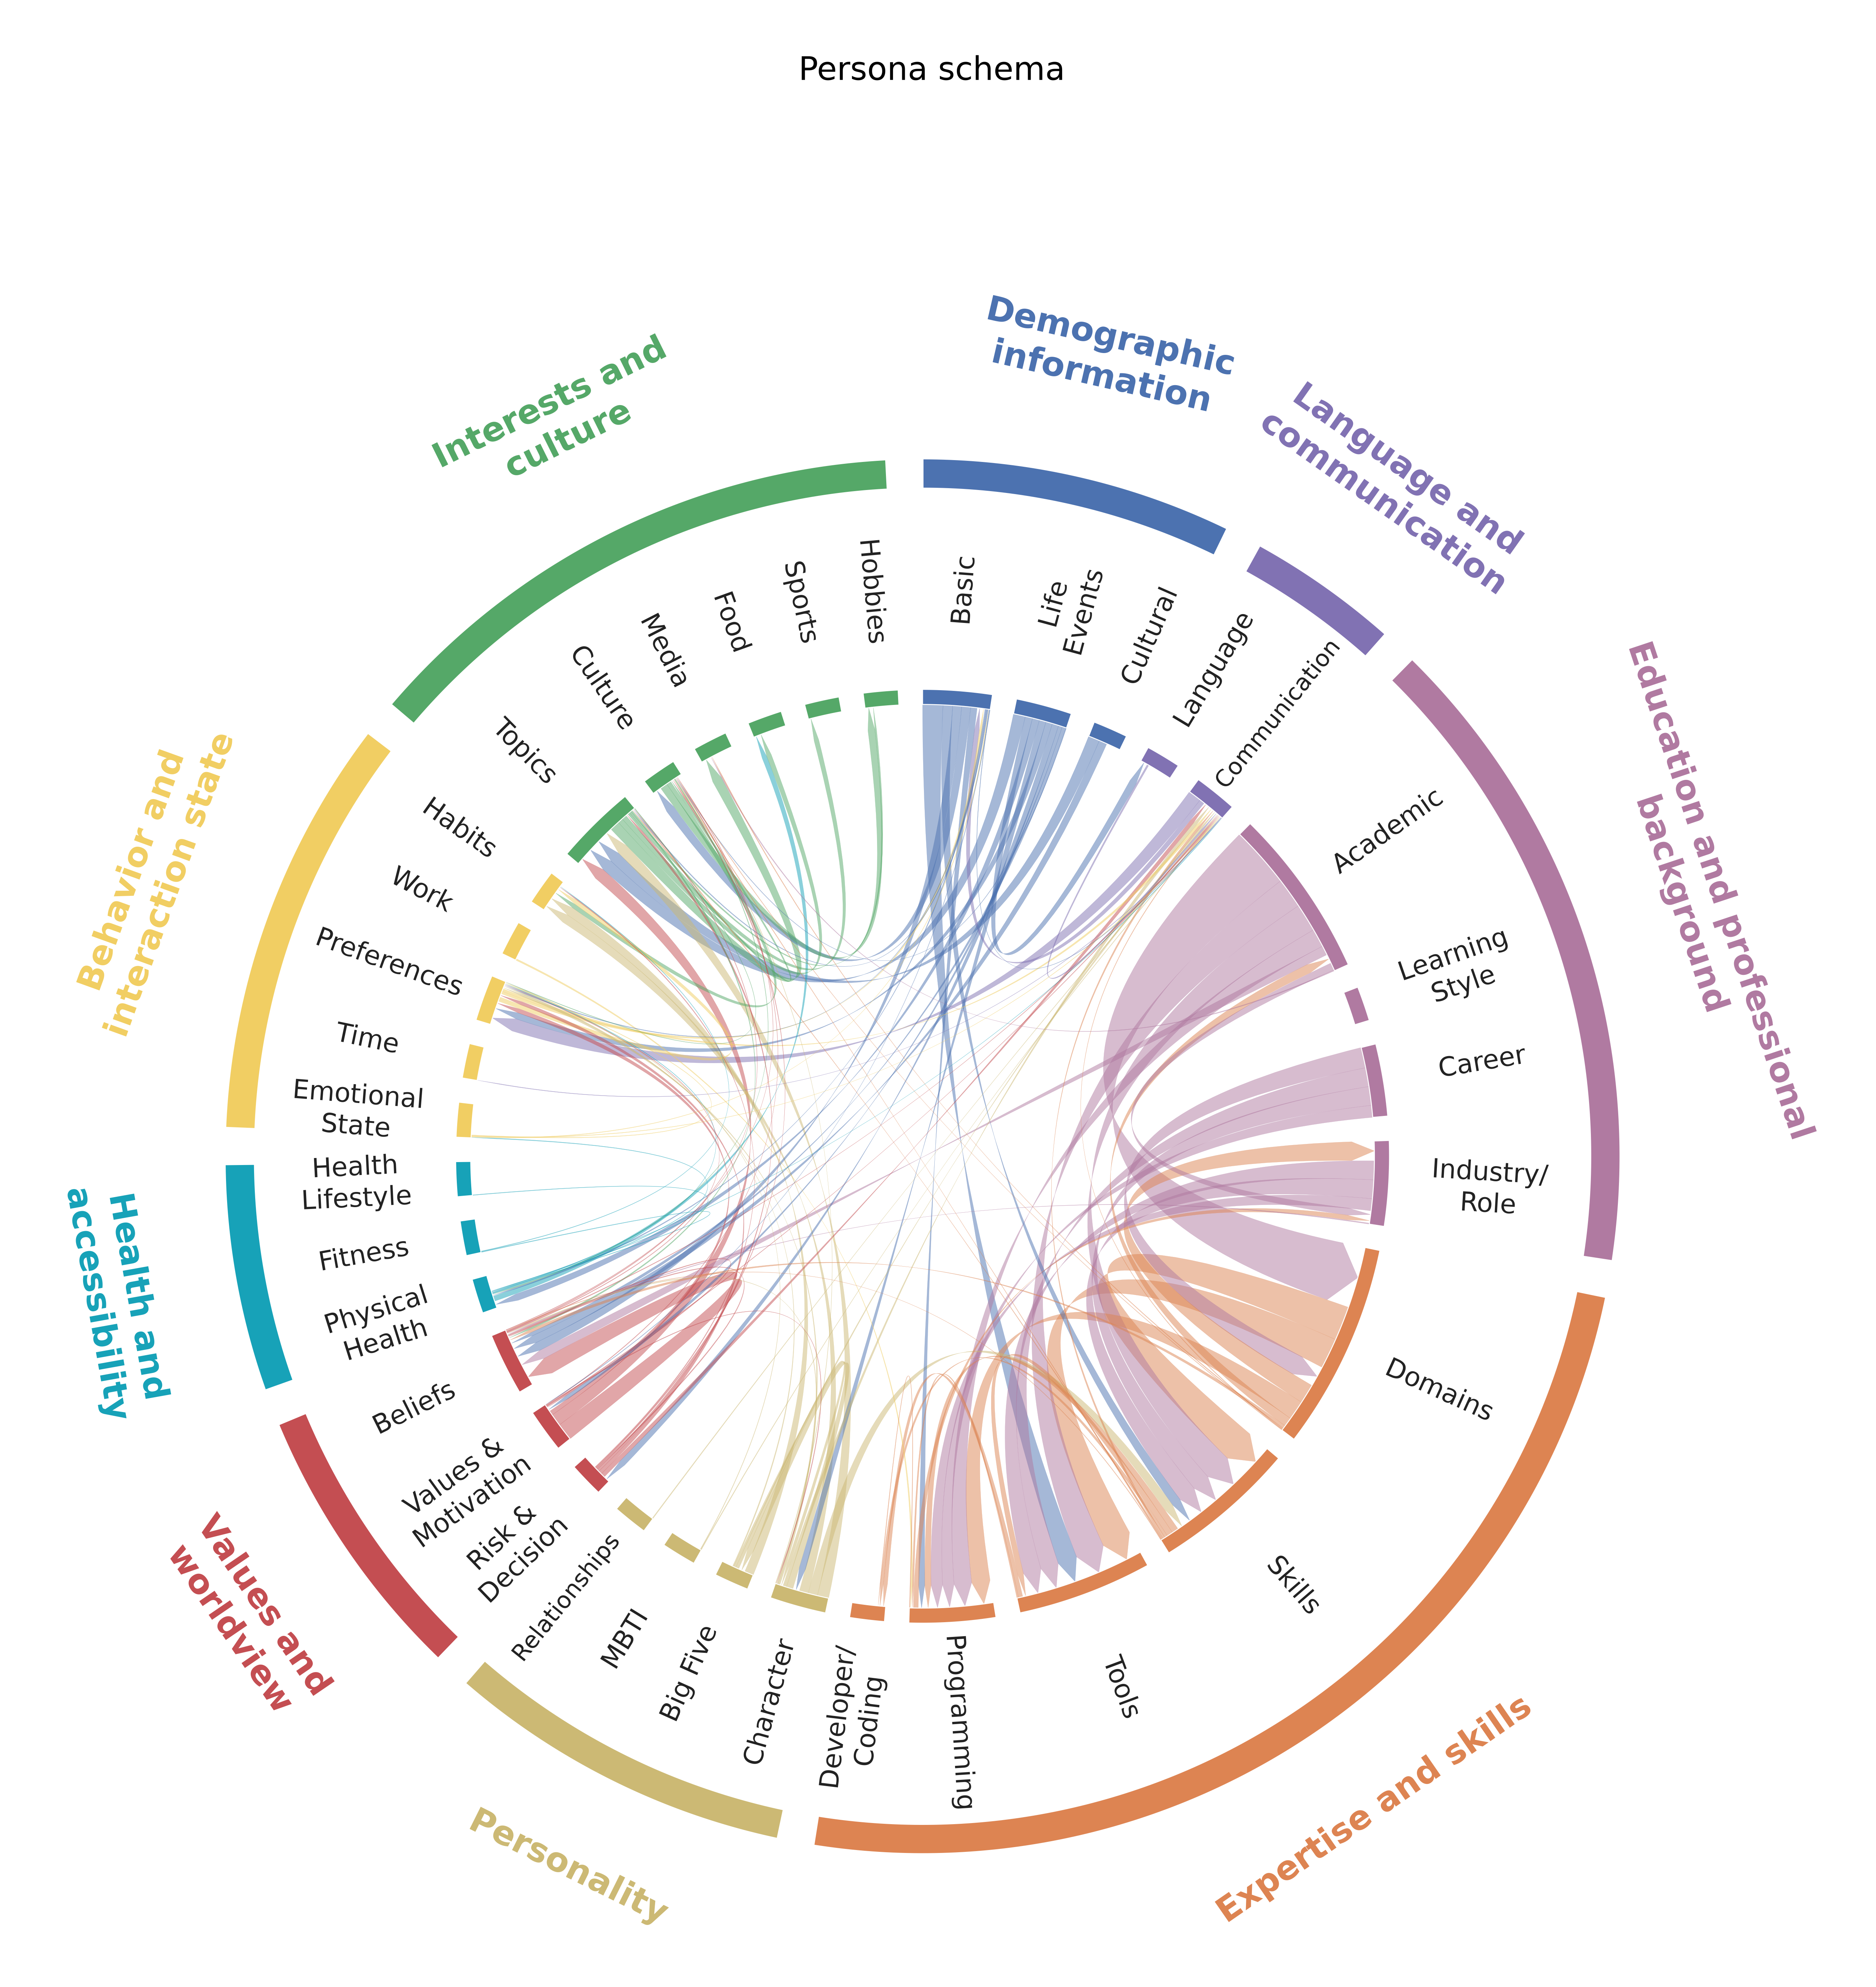
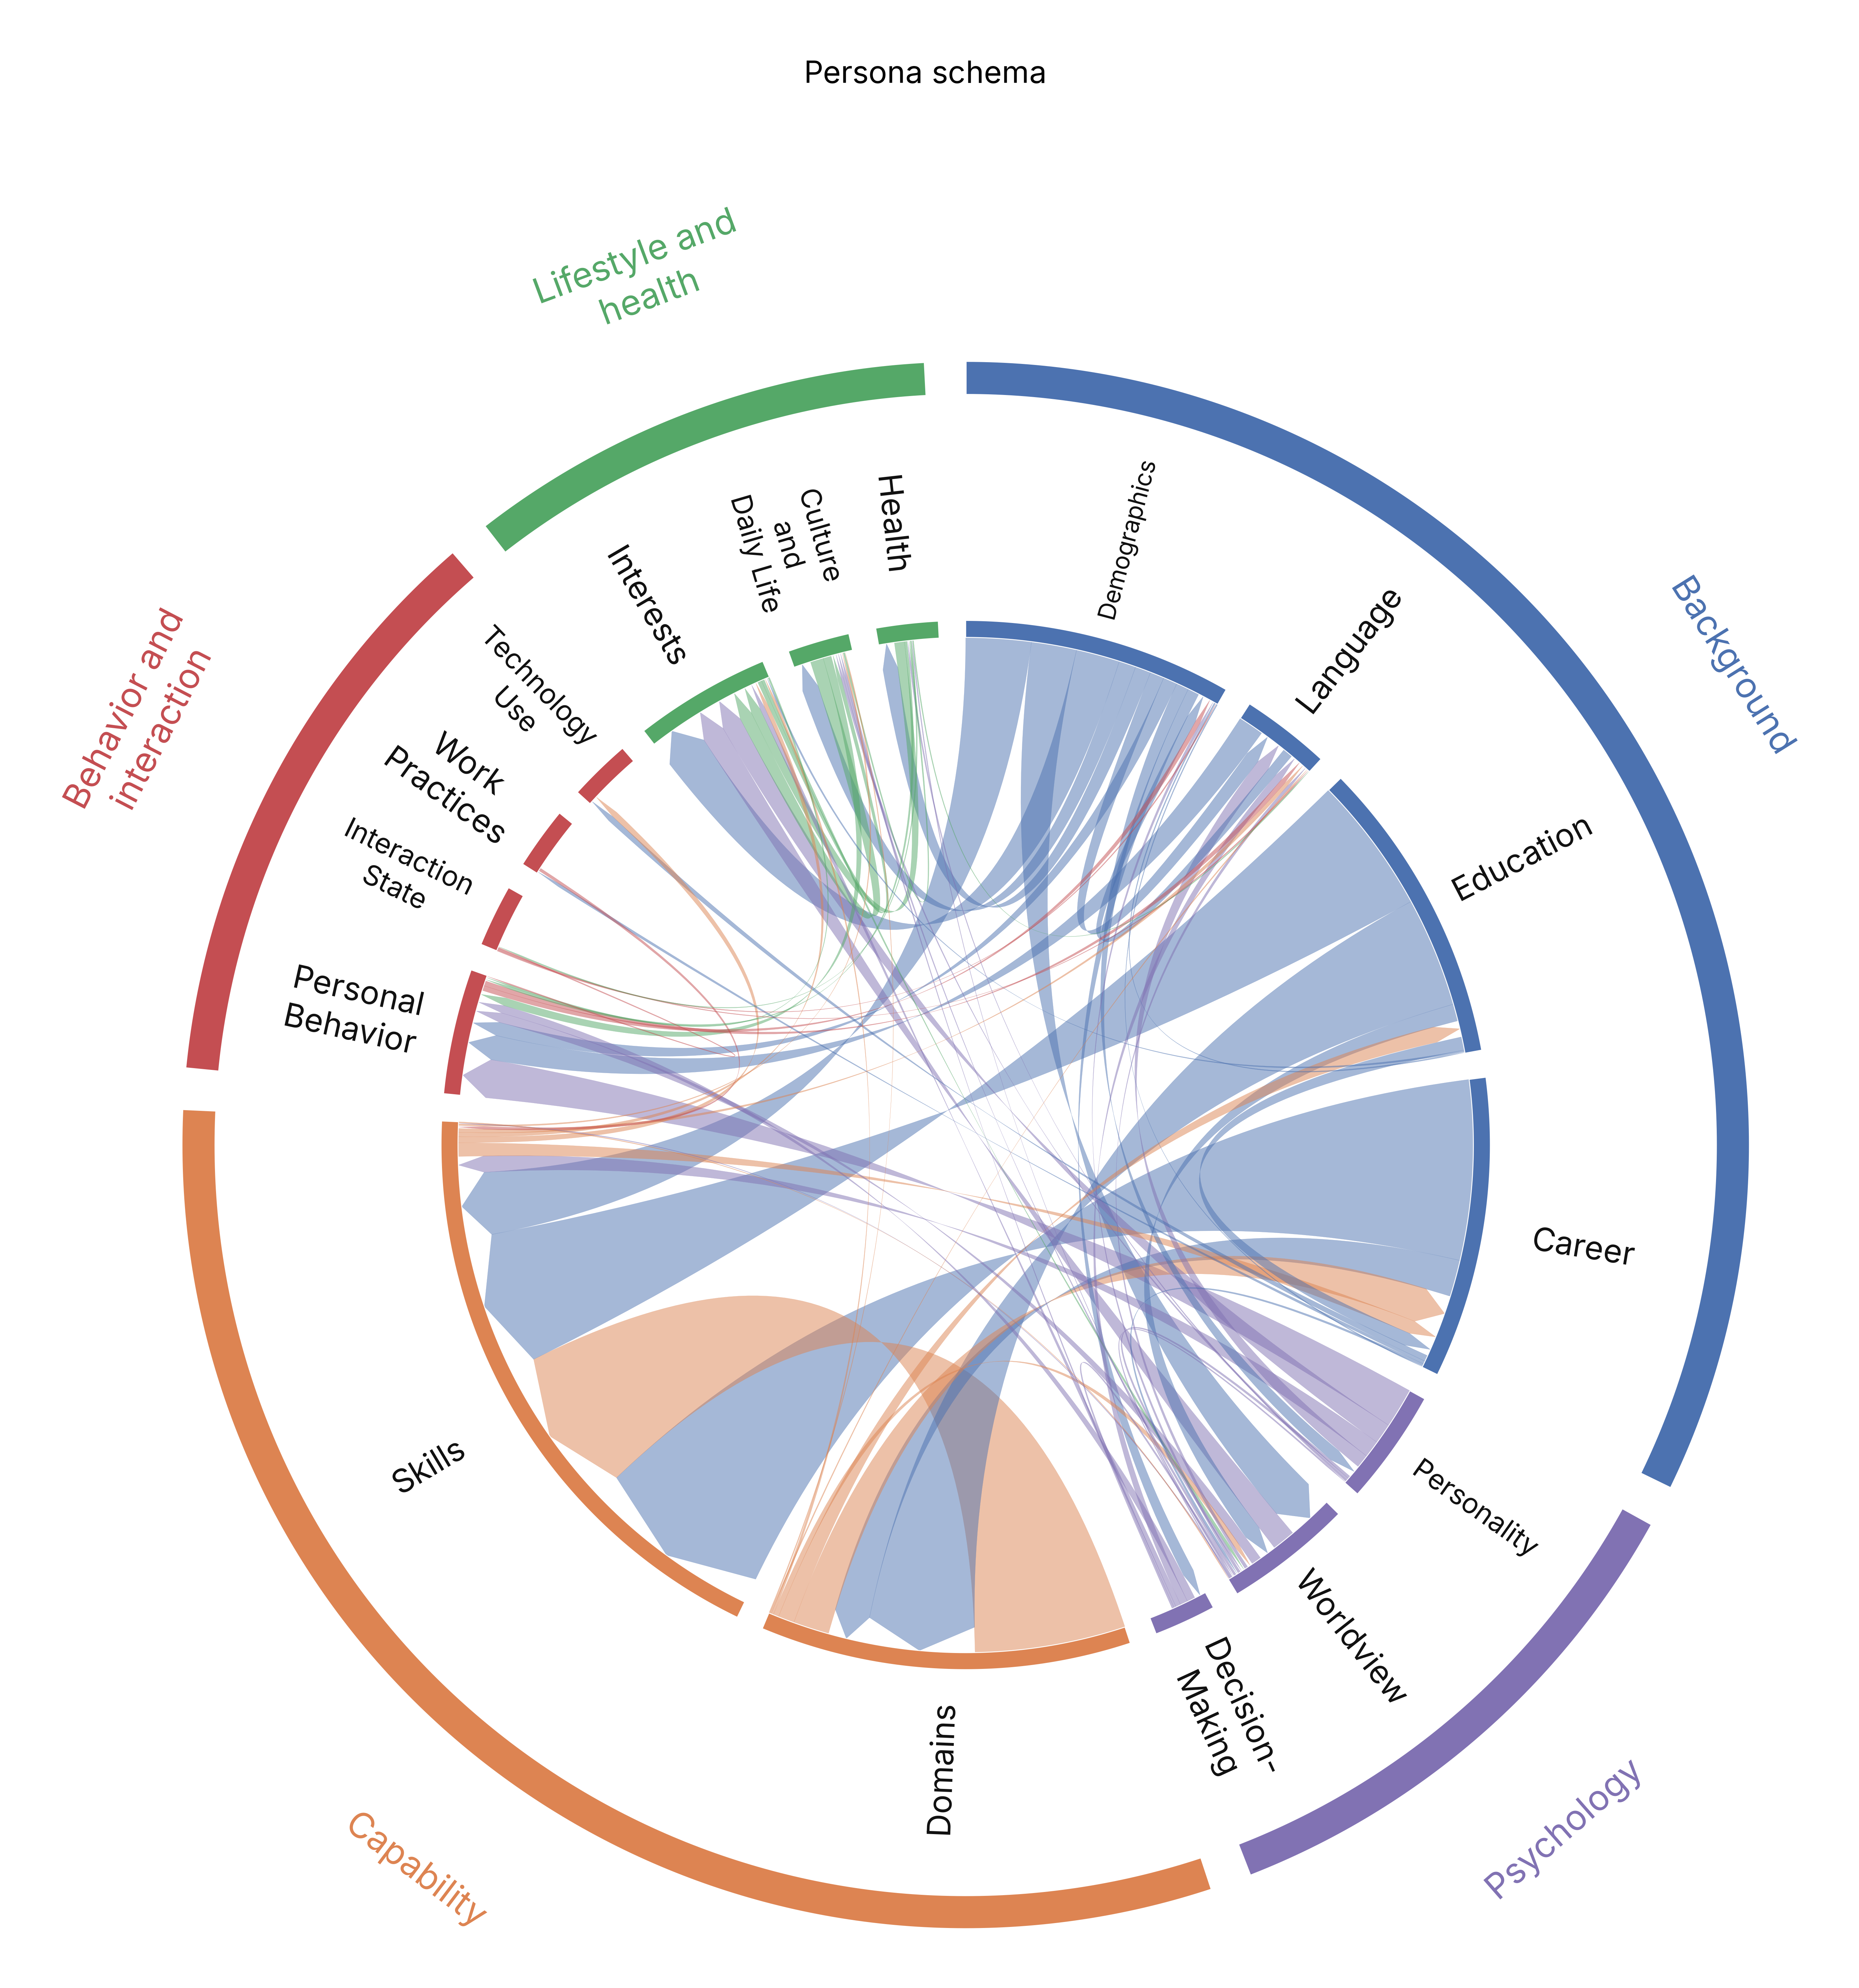
chord: rebuild to the three-layer taxonomy (5 groups / 16 subgroups)
- Update the two-ring chord to the count-validated taxonomy (PR #221):
  outer ring is the 5 Layer-1 groups, inner ring the 16 Layer-2 subgroups
- Aggregate all 43 schema categories into the 16 subgroups per the taxonomy
- Use the Inter font, larger radial subgroup labels, and a tighter ring gap
- Vendor Inter-Variable.ttf so the figure renders identically on regeneration

diff --git a/persona/synthesis/scripts/render_persona_schema_chord.py b/persona/synthesis/scripts/render_persona_schema_chord.py
@@ -2,23 +2,24 @@
 """Render a publication-quality two-ring chord diagram of the Persona schema.
 
 The figure summarizes the Persona Full DAG at the taxonomy level, aligned to the
-official taxonomy table (9 groups / 35 sub-categories / 1290 attributes):
+count-validated three-layer taxonomy (PR #221;
+persona/schema/matraix_persona_taxonomy_3layer_1290.md): 5 Layer-1 groups /
+16 Layer-2 subgroups / 1290 attributes.
 
-- Inner ring: 35 sub-categories, each coloured by its parent group.
-- Chord ribbons: directed-proposal edges aggregated to the sub-category level.
-- Outer ring: the 9 top-level groups, spanning their sub-categories.
+- Inner ring: the 16 Layer-2 subgroups, each coloured by its parent group.
+- Chord ribbons: directed-proposal edges aggregated to the subgroup level.
+- Outer ring: the 5 Layer-1 groups, spanning their subgroups.
 
 Notes on the aggregation:
 
 - Latent/helper graph nodes (the 18 nodes with no ``category``, e.g. ``latent_*``
   / ``phase*_*``) are excluded, so the figure covers exactly the 1290 real
-  persona attributes listed in the taxonomy table.
-- The 8 ``Developer: *`` schema categories are merged into a single
-  ``Developer/Coding`` sub-category, matching the taxonomy table.
-- ``Demographic: Family`` (1 attribute, no modeled edges) is omitted because it
-  would render as an empty stub with no ribbons.
-- To keep the diagram readable, only sub-category pairs with at least
-  ``--threshold`` aggregated edges (default 6) are drawn; weaker pairs are hidden.
+  persona attributes listed in the taxonomy.
+- Schema categories are aggregated into the 16 Layer-2 subgroups following the
+  taxonomy (e.g. all ``Developer: *`` categories fold into Career / Work
+  Practices / Technology Use as defined there).
+- To keep the diagram readable, only subgroup pairs with at least
+  ``--threshold`` aggregated edges are drawn; weaker pairs are hidden.
 
 Run from the repository root:
 
@@ -36,12 +37,27 @@ import json
 from pathlib import Path
 
 import numpy as np
+import matplotlib.font_manager
+import matplotlib.pyplot as plt
 from pycirclize import Circos
 import pycirclize.utils.plot as pcp
 
 REPO_ROOT = Path(__file__).resolve().parents[3]
 DEFAULT_GRAPH_PATH = REPO_ROOT / "persona" / "synthesis" / "graph" / "full_dag.json"
 DEFAULT_OUT_DIR = REPO_ROOT / "persona" / "synthesis" / "visualization"
+
+
+def _use_inter_font() -> None:
+    """Register the bundled Inter font and make it the default, if present."""
+    inter_path = REPO_ROOT / "persona" / "schema" / "_fonts" / "Inter-Variable.ttf"
+    if inter_path.exists():
+        try:
+            matplotlib.font_manager.fontManager.addfont(str(inter_path))
+            name = matplotlib.font_manager.FontProperties(
+                fname=str(inter_path)).get_name()
+            plt.rcParams["font.family"] = name
+        except Exception:
+            pass
 
 
 def _display_path(path: Path) -> str:
@@ -52,67 +68,60 @@ def _display_path(path: Path) -> str:
         return str(path.resolve())
 
 
-# OFFICIAL taxonomy: 9 groups -> sub-categories.
-# Each entry is (group display name, group colour, [(sub-category display name,
-# [schema category keys it aggregates]), ...]).
+# OFFICIAL three-layer taxonomy (PR #221): 5 Layer-1 groups -> 16 Layer-2
+# subgroups. Each entry is (group display name, group colour, [(subgroup
+# display name, [schema category keys it aggregates]), ...]). The inner ring is
+# the 16 Layer-2 subgroups; the outer ring is the 5 Layer-1 groups. Counts and
+# groupings follow persona/schema/matraix_persona_taxonomy_3layer_1290.md.
 GROUPS = [
-    ("Demographic\ninformation", "#4C72B0", [
-        ("Basic", ["Demographic: Core"]),
-        ("Life Events", ["Demographic: Life Events"]),
-        ("Cultural", ["Demographic: Cultural"]),
-    ]),
-    ("Language and\ncommunication", "#8172B3", [
-        ("Language", ["Linguistic: Language"]),
-        ("Communication", ["Linguistic: Communication"]),
-    ]),
-    ("Education and professional\nbackground", "#B07AA1", [
-        ("Academic", ["Learning: Academic"]),
-        ("Learning Style", ["Learning: Style"]),
-        ("Career", ["Professional: Career"]),
-        ("Industry/Role", ["Professional: Industry"]),
-    ]),
-    ("Expertise and skills", "#DD8452", [
-        ("Domains", ["Expertise: Domains"]),
-        ("Skills", ["Expertise: Skills"]),
-        ("Tools", ["Skills: Tools"]),
-        ("Programming", ["Skills: Programming"]),
-        ("Developer/Coding", [
-            "Developer: AI Workflow Tasks", "Developer: Agent Adoption",
-            "Developer: Code Maintenance", "Developer: AI Adoption",
-            "Developer: Technology Evaluation", "Developer: Open Source Behavior",
-            "Developer: Professional Context", "Developer: Community Behavior",
+    ("Background", "#4C72B0", [
+        ("Demographics", [
+            "Demographic: Core", "Demographic: Family",
+            "Demographic: Cultural", "Demographic: Life Events",
+        ]),
+        ("Language", ["Linguistic: Language", "Linguistic: Communication"]),
+        ("Education", ["Learning: Academic", "Learning: Style"]),
+        ("Career", [
+            "Professional: Career", "Professional: Industry",
+            "Developer: Professional Context",
         ]),
     ]),
-    ("Personality", "#CCB974", [
-        ("Character", ["Personality: Character"]),
-        ("Big Five", ["Personality: Big Five"]),
-        ("MBTI", ["Personality: MBTI"]),
-        ("Relationships", ["Personality: Relationships"]),
+    ("Psychology", "#8172B3", [
+        ("Personality", [
+            "Personality: Character", "Personality: Big Five",
+            "Personality: MBTI", "Personality: Relationships",
+        ]),
+        ("Worldview", ["Values & Motivation", "Worldview: Beliefs"]),
+        ("Decision-\nMaking", ["Risk & Decision"]),
     ]),
-    ("Values and\nworldview", "#C44E52", [
-        ("Risk & Decision", ["Risk & Decision"]),
-        ("Values & Motivation", ["Values & Motivation"]),
-        ("Beliefs", ["Worldview: Beliefs"]),
+    ("Capability", "#DD8452", [
+        ("Domains", ["Expertise: Domains"]),
+        ("Skills", [
+            "Expertise: Skills", "Skills: Tools", "Skills: Programming",
+            "Developer: Code Maintenance",
+        ]),
     ]),
-    ("Health and\naccessibility", "#17A2B8", [
-        ("Physical Health", ["Health: Physical"]),
-        ("Fitness", ["Health: Fitness"]),
-        ("Health Lifestyle", ["Health: Lifestyle"]),
+    ("Behavior and\ninteraction", "#C44E52", [
+        ("Personal\nBehavior", [
+            "Behavior: Preferences", "Behavior: Habits", "Behavior: Time",
+        ]),
+        ("Interaction\nState", ["State: Emotional"]),
+        ("Work\nPractices", [
+            "Behavior: Work", "Developer: Open Source Behavior",
+            "Developer: Community Behavior",
+        ]),
+        ("Technology\nUse", [
+            "Developer: AI Adoption", "Developer: AI Workflow Tasks",
+            "Developer: Agent Adoption", "Developer: Technology Evaluation",
+        ]),
     ]),
-    ("Behavior and\ninteraction state", "#F1CE63", [
-        ("Emotional State", ["State: Emotional"]),
-        ("Time", ["Behavior: Time"]),
-        ("Preferences", ["Behavior: Preferences"]),
-        ("Work", ["Behavior: Work"]),
-        ("Habits", ["Behavior: Habits"]),
-    ]),
-    ("Interests and\nculture", "#55A868", [
-        ("Topics", ["Interests: Topics"]),
-        ("Culture", ["Interests: Culture"]),
-        ("Media", ["Interests: Media"]),
-        ("Food", ["Interests: Food"]),
-        ("Sports", ["Interests: Sports"]),
-        ("Hobbies", ["Interests: Hobbies"]),
+    ("Lifestyle and\nhealth", "#55A868", [
+        ("Interests", [
+            "Interests: Topics", "Interests: Media", "Interests: Hobbies",
+            "Interests: Sports", "Interests: Food",
+        ]),
+        ("Culture and\nDaily Life", ["Interests: Culture"]),
+        ("Health", ["Health: Physical", "Health: Fitness", "Health: Lifestyle"]),
     ]),
 ]
 
@@ -159,6 +168,7 @@ def _wrap_label(name: str, width: int = 9) -> str:
 
 
 def render(graph_path: Path, out_dir: Path, threshold: int = 6) -> None:
+    _use_inter_font()
     graph = json.loads(graph_path.read_text(encoding="utf-8"))
     nodes = graph["nodes"]
     edges = graph["directed_proposal_edges"]
@@ -213,9 +223,14 @@ def render(graph_path: Path, out_dir: Path, threshold: int = 6) -> None:
         track.axis(fc=group_color[group_name], ec="white", lw=0.6)
         label = _wrap_label(sector.name)
         longest = max(len(line) for line in label.split("\n"))
-        label_size = 17.0 if longest <= 11 else 15.0
-        sector.text(label, r=113, size=label_size, adjust_rotation=True,
-                    orientation="vertical", color="#222")
+        if longest <= 9:
+            label_size = 22.0
+        elif longest <= 11:
+            label_size = 19.0
+        else:
+            label_size = 16.5
+        sector.text(label, r=111, size=label_size, adjust_rotation=True,
+                    orientation="vertical", color="#111")
 
     # Draw chord ribbons, heaviest first, so thin links stay visible on top.
     cursor = {name: 0.0 for name in subgroups_ordered}
@@ -244,7 +259,7 @@ def render(graph_path: Path, out_dir: Path, threshold: int = 6) -> None:
         lo, hi = min(degrees), max(degrees)
         circos.rect(r_lim=(133, 139), deg_lim=(lo, hi), fc=group_col,
                     ec="white", lw=1.2)
-        circos.text(group_name, r=155, deg=(lo + hi) / 2, size=22,
+        circos.text(group_name, r=157, deg=(lo + hi) / 2, size=24,
                     adjust_rotation=True, orientation="horizontal",
                     color=group_col, fontweight="bold", va="center", ha="center")
 
@@ -259,8 +274,8 @@ def render(graph_path: Path, out_dir: Path, threshold: int = 6) -> None:
     covered_total = sum(covered.values())
     print(
         f"wrote {_display_path(png_path)} and {_display_path(pdf_path)} | "
-        f"sub-categories={n_sub} attributes_covered={covered_total} "
-        f"(1290 total; Family's 1 attribute is excluded as it has no edges)"
+        f"groups={len(GROUPS)} subgroups={n_sub} "
+        f"attributes_covered={covered_total} (expect 1290)"
     )
 
 